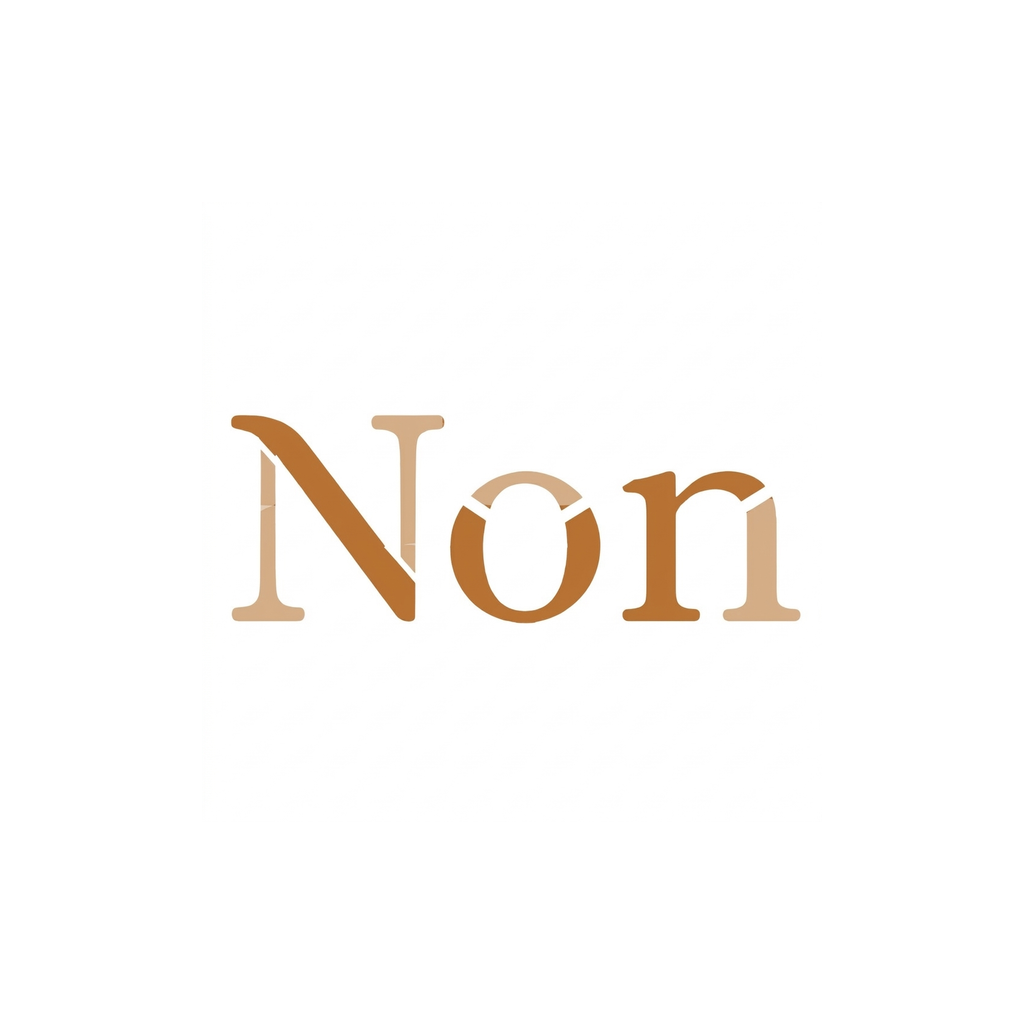
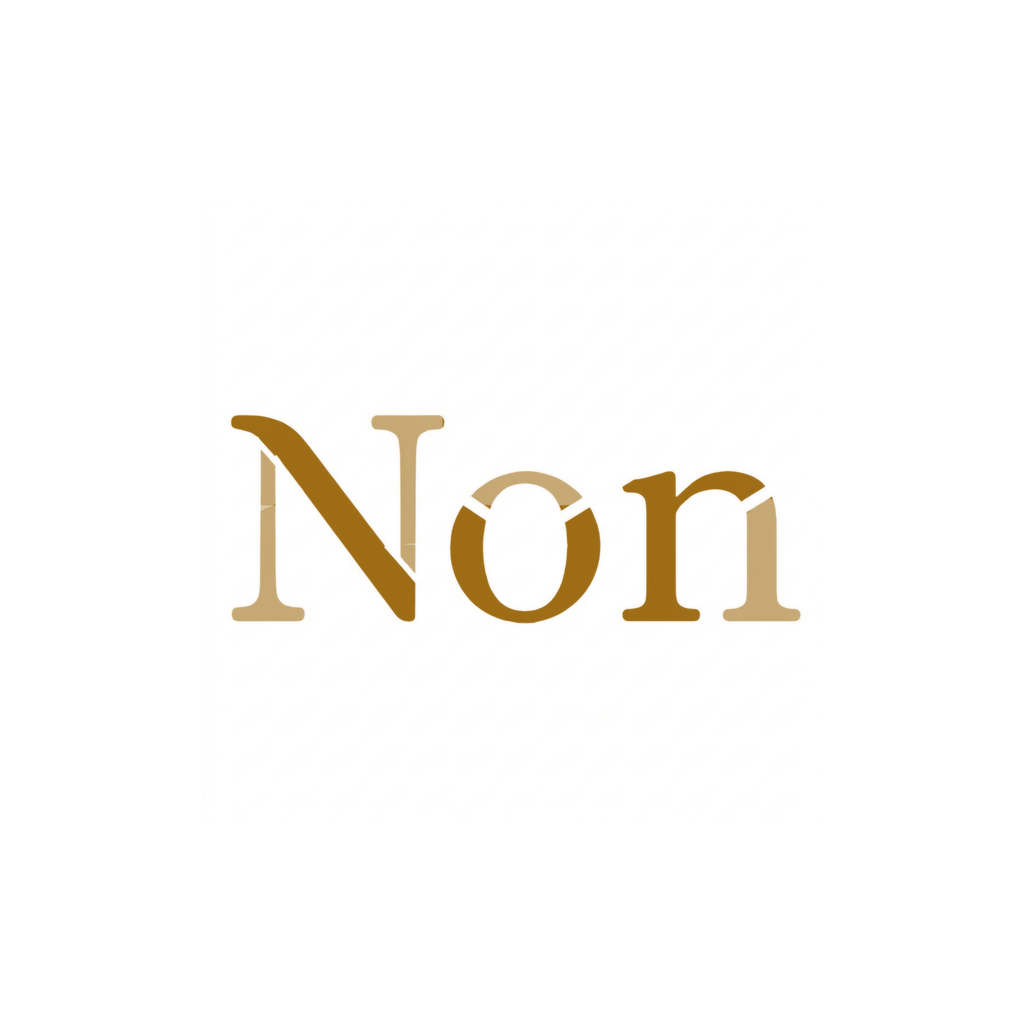
Yangi rang: "Qobiq" — pishgan non qobig'i oltini
- Asosiy rang jigarrangdan iliq oltin-asalga (#93640E), fon un oqi,
  kartalar non mag'zi rangida; kontrast tekshirilgan (matn 12,5:1,
  tugma matni 5:1, aksent 4,7:1)
- Tun mavzusi ham oltin qobiqqa moslashtirildi
- Grafik ranglari (foyda/zarar) dataviz validator bilan qayta tekshirildi
- Logotip, ilova ikonkasi va splash yangi oltin rangda
- PDF hisobot va Android tizim ranglari ham yangilandi

Claude-Session: https://claude.ai/code/session_0155dbo5qTEid9V1zmB5EFgT

Changed region(s): [[0.5938, 0.4375, 0.75, 0.625], [0.4375, 0.5, 0.5938, 0.625], [0.2188, 0.4062, 0.4062, 0.625]]

diff --git a/src/theme.js b/src/theme.js
@@ -12,41 +12,42 @@ import AsyncStorage from "@react-native-async-storage/async-storage";
 // Har bir mavzu: bir xil kalitlar to'plami. Grafik ranglari (musbat/manfiy)
 // dataviz validator bilan karta foniga nisbatan tekshirilgan.
 export const TEMALAR = {
+  // "Qobiq" palitrasi — pishgan non qobig'i: iliq oltin-asal aksent, un rangidagi fon.
+  // Kontrast tekshirilgan: aksent ustidagi matn 5:1, aksent karta ustida 4,7:1, matn 12,5:1.
   non: {
     nom: "Non", qorongi: false,
     ranglar: {
-      // Premium minimalist: OQ asosiy fon, QAYMOQ bloklar (qatlamlararo farq + yumshoq soya)
-      bg: "#FFFFFF",          // asosiy ekran foni — oq
-      surface: "#FFFFFF",     // input/inset — oq (qaymoq karta ustida toza ko'rinadi)
-      card: "#FBF6EC",        // bloklar — yumshoq qaymoq
-      panel: "#F6EEDF",       // ichki band / chuqurroq qaymoq
-      border: "#E2D2B4", borderSoft: "#EDE2CF",  // sezilarli, lekin yumshoq chegara chizig'i
-      accent: "#A0612A",      // jigarrang — FAQAT asosiy harakatlar (tugmalar) uchun
-      red: "#3A1E08",         // xavfli harakat — issiq palitra toni (qizil YO'Q)
-      text: "#33200E",        // asosiy matn — iliq quyuq jigarrang
-      sub: "#8A7458",         // ikkilamchi matn / dekorativ ikonkalar
-      muted: "#B5A07E",       // uchlamchi / hint
-      onAccent: "#FFF3E8", onAccentSub: "#EBD8BF", // accent fon ustidagi matn
-      bar: "#FFFFFF",         // pastki panel
-      dangerBg: "#F8EDE7", dangerBorder: "#E8C9B6",
-      accentBg: "#F5EBDA", accentBorder: "#E7D3B4",
-      overlay: "rgba(58,30,8,0.35)",
-      musbat: "#A0612A", manfiy: "#1C7FA8", // grafik: foyda / zarar
+      bg: "#FFFEFA",          // asosiy ekran foni — un oqi (sof oqdan iliqroq)
+      surface: "#FFFFFF",     // input/inset — oq
+      card: "#FBF4E2",        // bloklar — yumshoq non ichi (mag'iz) rangi
+      panel: "#F5EBD3",       // ichki band / chuqurroq
+      border: "#E8D8A8", borderSoft: "#F0E6C8",  // bug'doy rangidagi yumshoq chegara
+      accent: "#93640E",      // qobiq oltini — FAQAT asosiy harakatlar (tugmalar) uchun
+      red: "#5A2E0E",         // xavfli harakat — kuygan qobiq toni (qizil YO'Q)
+      text: "#3B2A12",        // asosiy matn — iliq quyuq jigarrang
+      sub: "#806A33",         // ikkilamchi matn / dekorativ ikonkalar
+      muted: "#A8935C",       // uchlamchi / hint
+      onAccent: "#FFFBF0", onAccentSub: "#F6EBCB", // aksent fon ustidagi matn
+      bar: "#FFFEFA",         // pastki panel
+      dangerBg: "#F9EDE2", dangerBorder: "#EBCDB4",
+      accentBg: "#F6EBCF", accentBorder: "#E7D3A2",
+      overlay: "rgba(59,42,18,0.35)",
+      musbat: "#93640E", manfiy: "#2A7BA6", // grafik: foyda / zarar (validator: PASS)
     },
   },
   tun: {
     nom: "Tun", qorongi: true,
     ranglar: {
-      bg: "#14100C", surface: "#1B1510", card: "#211A13", panel: "#2B2219",
-      border: "#3D3125", borderSoft: "#30271D",
-      accent: "#D9924F", red: "#EFA27E",
-      text: "#F2E6D6", sub: "#BCA88E", muted: "#857259",
-      onAccent: "#23160B", onAccentSub: "#4F3620",
-      bar: "#1A1410",
+      bg: "#15110B", surface: "#1C170F", card: "#211A12", panel: "#2B2318",
+      border: "#3E3322", borderSoft: "#31281B",
+      accent: "#D9A23A", red: "#EFA27E",            // tunda — yorqin oltin qobiq
+      text: "#F3E8D2", sub: "#C2AD84", muted: "#8C7A55",
+      onAccent: "#241806", onAccentSub: "#4E3A12",
+      bar: "#1A150E",
       dangerBg: "#2E1C14", dangerBorder: "#4B2E21",
-      accentBg: "#2A2016", accentBorder: "#47361F",
+      accentBg: "#2A2214", accentBorder: "#4A3A1C",
       overlay: "rgba(0,0,0,0.55)",
-      musbat: "#C47A35", manfiy: "#3A93C6",
+      musbat: "#B5822A", manfiy: "#3A93C6",
     },
   },
 };

diff --git a/src/logic/ulashish.js b/src/logic/ulashish.js
@@ -16,23 +16,23 @@ const son = (x) => parseFloat(x) || 0;
 
 const USLUB = `
   * { box-sizing: border-box; }
-  body { font-family: -apple-system, Roboto, "Segoe UI", Arial, sans-serif; color: #33200E; margin: 0; padding: 28px; background: #fff; }
-  .bosh { display: flex; justify-content: space-between; align-items: flex-end; border-bottom: 2px solid #A0612A; padding-bottom: 12px; margin-bottom: 18px; }
-  .brend { font-size: 22px; font-weight: 800; color: #A0612A; }
-  .akk { font-size: 13px; color: #8A7458; margin-top: 2px; }
-  .sana { font-size: 13px; color: #8A7458; text-align: right; }
+  body { font-family: -apple-system, Roboto, "Segoe UI", Arial, sans-serif; color: #3B2A12; margin: 0; padding: 28px; background: #fff; }
+  .bosh { display: flex; justify-content: space-between; align-items: flex-end; border-bottom: 2px solid #93640E; padding-bottom: 12px; margin-bottom: 18px; }
+  .brend { font-size: 22px; font-weight: 800; color: #93640E; }
+  .akk { font-size: 13px; color: #806A33; margin-top: 2px; }
+  .sana { font-size: 13px; color: #806A33; text-align: right; }
   h1 { font-size: 18px; margin: 0 0 4px; }
   .katta { display: flex; gap: 10px; margin: 14px 0 18px; }
-  .plitka { flex: 1; background: #FBF6EC; border: 1px solid #EDE2CF; border-radius: 12px; padding: 10px 12px; }
-  .plitka .l { font-size: 11px; color: #8A7458; font-weight: 700; text-transform: uppercase; letter-spacing: .5px; }
+  .plitka { flex: 1; background: #FBF4E2; border: 1px solid #F0E6C8; border-radius: 12px; padding: 10px 12px; }
+  .plitka .l { font-size: 11px; color: #806A33; font-weight: 700; text-transform: uppercase; letter-spacing: .5px; }
   .plitka .v { font-size: 18px; font-weight: 800; margin-top: 3px; }
   table { width: 100%; border-collapse: collapse; margin-bottom: 16px; font-size: 13px; }
-  th { text-align: left; font-size: 11px; color: #8A7458; text-transform: uppercase; letter-spacing: .5px; padding: 6px 4px; border-bottom: 1px solid #E2D2B4; }
-  td { padding: 7px 4px; border-bottom: 1px solid #F1E8D8; }
+  th { text-align: left; font-size: 11px; color: #806A33; text-transform: uppercase; letter-spacing: .5px; padding: 6px 4px; border-bottom: 1px solid #E8D8A8; }
+  td { padding: 7px 4px; border-bottom: 1px solid #F5EDDA; }
   td.r, th.r { text-align: right; }
-  .jami td { font-weight: 800; border-bottom: none; border-top: 2px solid #E2D2B4; }
-  .bolim { font-size: 12px; font-weight: 800; color: #8A7458; letter-spacing: 1px; margin: 18px 0 6px; text-transform: uppercase; }
-  .izoh { font-size: 11px; color: #B5A07E; margin-top: 18px; }
+  .jami td { font-weight: 800; border-bottom: none; border-top: 2px solid #E8D8A8; }
+  .bolim { font-size: 12px; font-weight: 800; color: #806A33; letter-spacing: 1px; margin: 18px 0 6px; text-transform: uppercase; }
+  .izoh { font-size: 11px; color: #A8935C; margin-top: 18px; }
 `;
 
 function sahifa({ sarlavha, davr, akkaunt, ichi }) {
